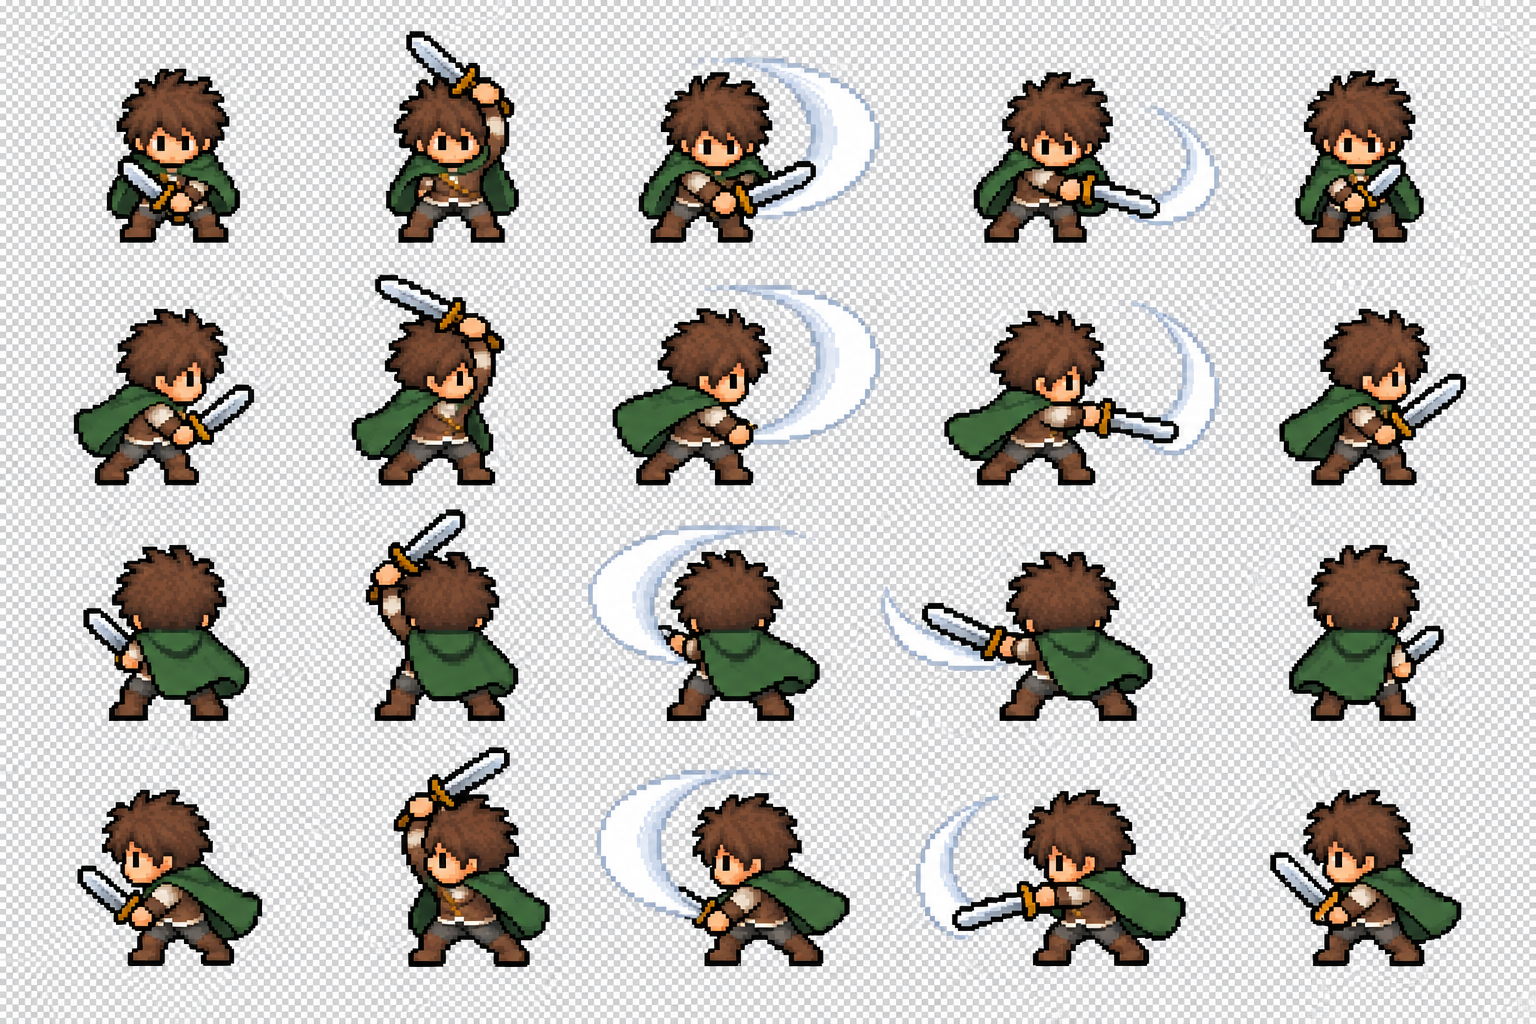
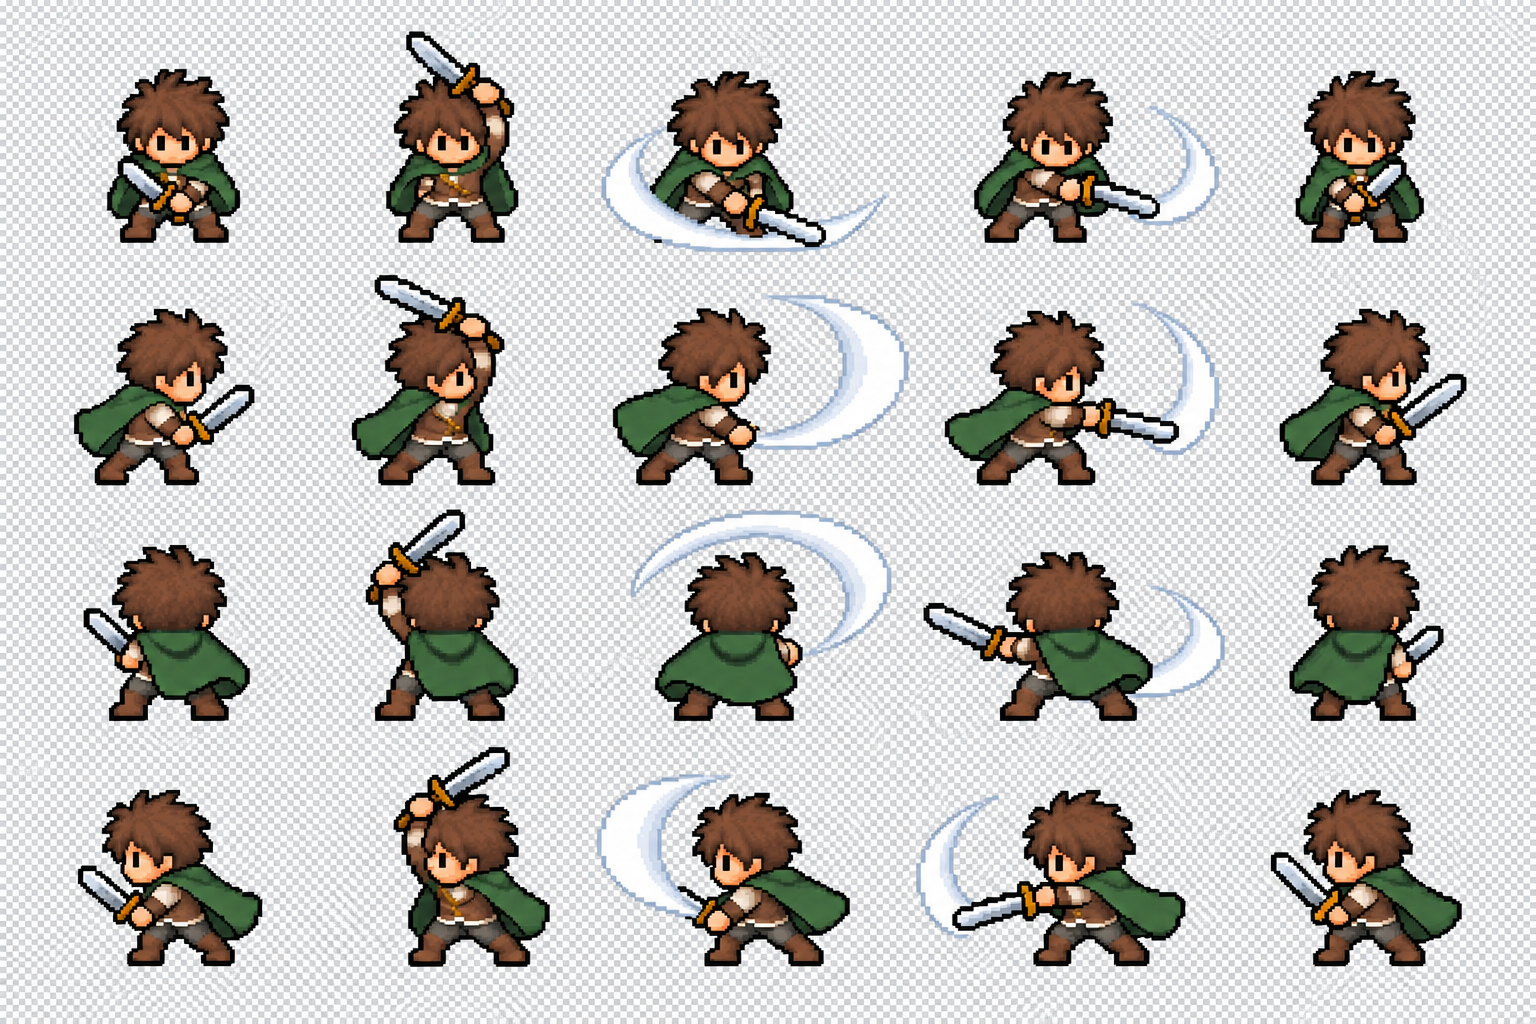
New swing frames and a slightly slower swing
Swap tools/hero-swing.png for the updated sheet (same 5x4 layout: rows
face towards the player, right, away, left; each read left to right)
and rebuild the atlas. The swing now plays over 0.42s instead of 0.3s;
the slash frame still lands before the fastest attack cooldown, so it
always shows even when attacking nonstop.

Claude-Session: https://claude.ai/code/session_01FFhEA1UyqBRgv5VPwuY3ib

diff --git a/js/hero-frames.js b/js/hero-frames.js
@@ -1,3 +1,3 @@
 // Generated from the hero sprite sheets by tools/build-hero.py: [x, y, w, h, anchorX] per frame.
 // Alpha encodes recolour roles: 255 keep, 254 cloak, 253 hair, 252 skin, 251 tunic.
-export const HERO_FRAMES = {"front": [[0, 5, 20, 30, 10], [21, 2, 20, 33, 9], [42, 2, 19, 33, 9], [62, 4, 20, 31, 10], [83, 3, 20, 32, 10]], "side": [[104, 1, 27, 34, 17], [132, 1, 28, 34, 18], [161, 2, 27, 33, 17], [189, 1, 27, 34, 17], [217, 1, 29, 34, 19], [247, 2, 28, 33, 18], [276, 1, 28, 34, 18], [305, 1, 25, 34, 15], [331, 1, 26, 34, 16]], "sideL": [[358, 1, 27, 34, 10], [386, 1, 25, 34, 9], [412, 1, 27, 34, 9], [440, 2, 29, 33, 9], [470, 1, 30, 34, 9], [501, 2, 26, 33, 9], [528, 2, 27, 33, 9], [556, 2, 26, 33, 9], [583, 2, 27, 33, 9]], "back": [[611, 2, 21, 33, 9], [633, 2, 22, 33, 11], [656, 1, 21, 34, 10], [678, 2, 21, 33, 10], [700, 2, 21, 33, 10]], "hurt": [[722, 10, 26, 25, 10]], "down": [[749, 18, 34, 17, 17]], "win": [[784, 3, 23, 32, 7]], "atkF": [[808, 7, 21, 28, 7], [830, 1, 21, 34, 7], [852, 5, 39, 30, 12], [892, 7, 40, 28, 7], [933, 7, 21, 28, 12]], "atk": [[955, 6, 29, 29, 14], [985, 1, 25, 34, 17], [1011, 2, 43, 33, 16], [1055, 5, 44, 30, 18], [1100, 7, 30, 28, 16]], "atkB": [[1131, 6, 27, 29, 18], [1159, 1, 25, 34, 7], [1185, 3, 38, 32, 19], [1224, 7, 44, 28, 25], [1269, 7, 25, 28, 14]], "atkL": [[1295, 7, 30, 28, 13], [1326, 0, 25, 35, 15], [1352, 3, 41, 32, 31], [1394, 6, 43, 29, 24], [1438, 7, 31, 28, 19]]};
+export const HERO_FRAMES = {"front": [[0, 5, 20, 30, 10], [21, 2, 20, 33, 9], [42, 2, 19, 33, 9], [62, 4, 20, 31, 10], [83, 3, 20, 32, 10]], "side": [[104, 1, 27, 34, 17], [132, 1, 28, 34, 18], [161, 2, 27, 33, 17], [189, 1, 27, 34, 17], [217, 1, 29, 34, 19], [247, 2, 28, 33, 18], [276, 1, 28, 34, 18], [305, 1, 25, 34, 15], [331, 1, 26, 34, 16]], "sideL": [[358, 1, 27, 34, 10], [386, 1, 25, 34, 9], [412, 1, 27, 34, 9], [440, 2, 29, 33, 9], [470, 1, 30, 34, 9], [501, 2, 26, 33, 9], [528, 2, 27, 33, 9], [556, 2, 26, 33, 9], [583, 2, 27, 33, 9]], "back": [[611, 2, 21, 33, 9], [633, 2, 22, 33, 11], [656, 1, 21, 34, 10], [678, 2, 21, 33, 10], [700, 2, 21, 33, 10]], "hurt": [[722, 10, 26, 25, 10]], "down": [[749, 18, 34, 17, 17]], "win": [[784, 3, 23, 32, 7]], "atkF": [[808, 6, 22, 29, 14], [831, 1, 21, 34, 7], [853, 6, 46, 29, 25], [900, 7, 40, 28, 7], [941, 6, 21, 29, 13]], "atk": [[963, 6, 29, 29, 14], [993, 1, 25, 34, 17], [1019, 4, 48, 31, 16], [1068, 5, 44, 30, 18], [1113, 6, 30, 29, 16]], "atkB": [[1144, 7, 27, 28, 10], [1172, 1, 25, 34, 16], [1198, 1, 42, 34, 18], [1241, 7, 49, 28, 28], [1291, 7, 25, 28, 9]], "atkL": [[1317, 7, 30, 28, 13], [1348, 0, 25, 35, 15], [1374, 4, 41, 31, 31], [1416, 6, 44, 29, 31], [1461, 7, 31, 28, 19]]};

diff --git a/js/render.js b/js/render.js
@@ -12,7 +12,7 @@ import { bladePositions, auraRadius, giantAngle, GIANT_LEN } from './sim.js';
 
 const BG = '#0c1a10';
 const DETAIL = 2;
-const ATTACK_POSE = 0.3; // seconds a sword swing lasts (wind-up, slash, follow-through)
+const ATTACK_POSE = 0.42; // seconds a sword swing lasts (wind-up, slash, follow-through)
 
 export class Renderer {
   constructor(canvas) {
